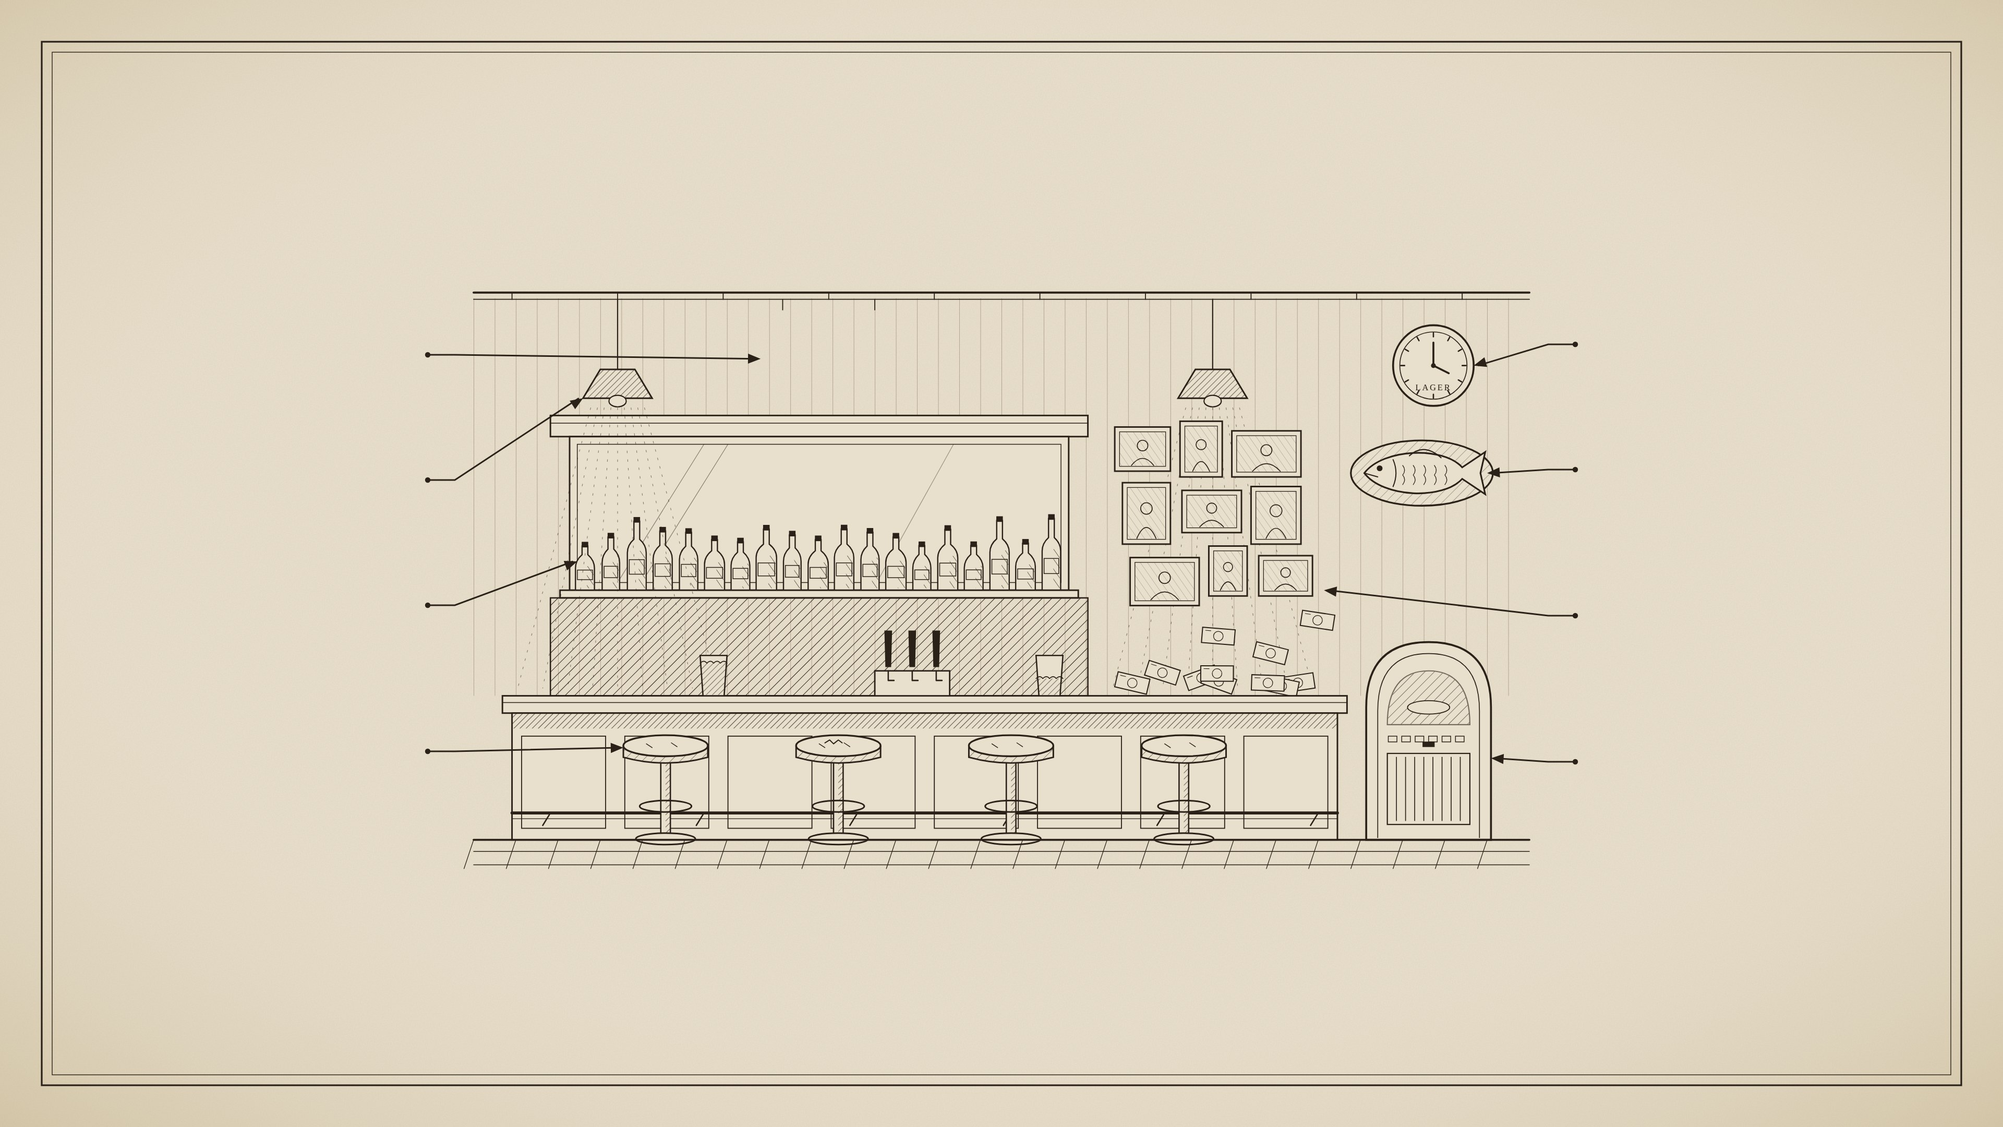
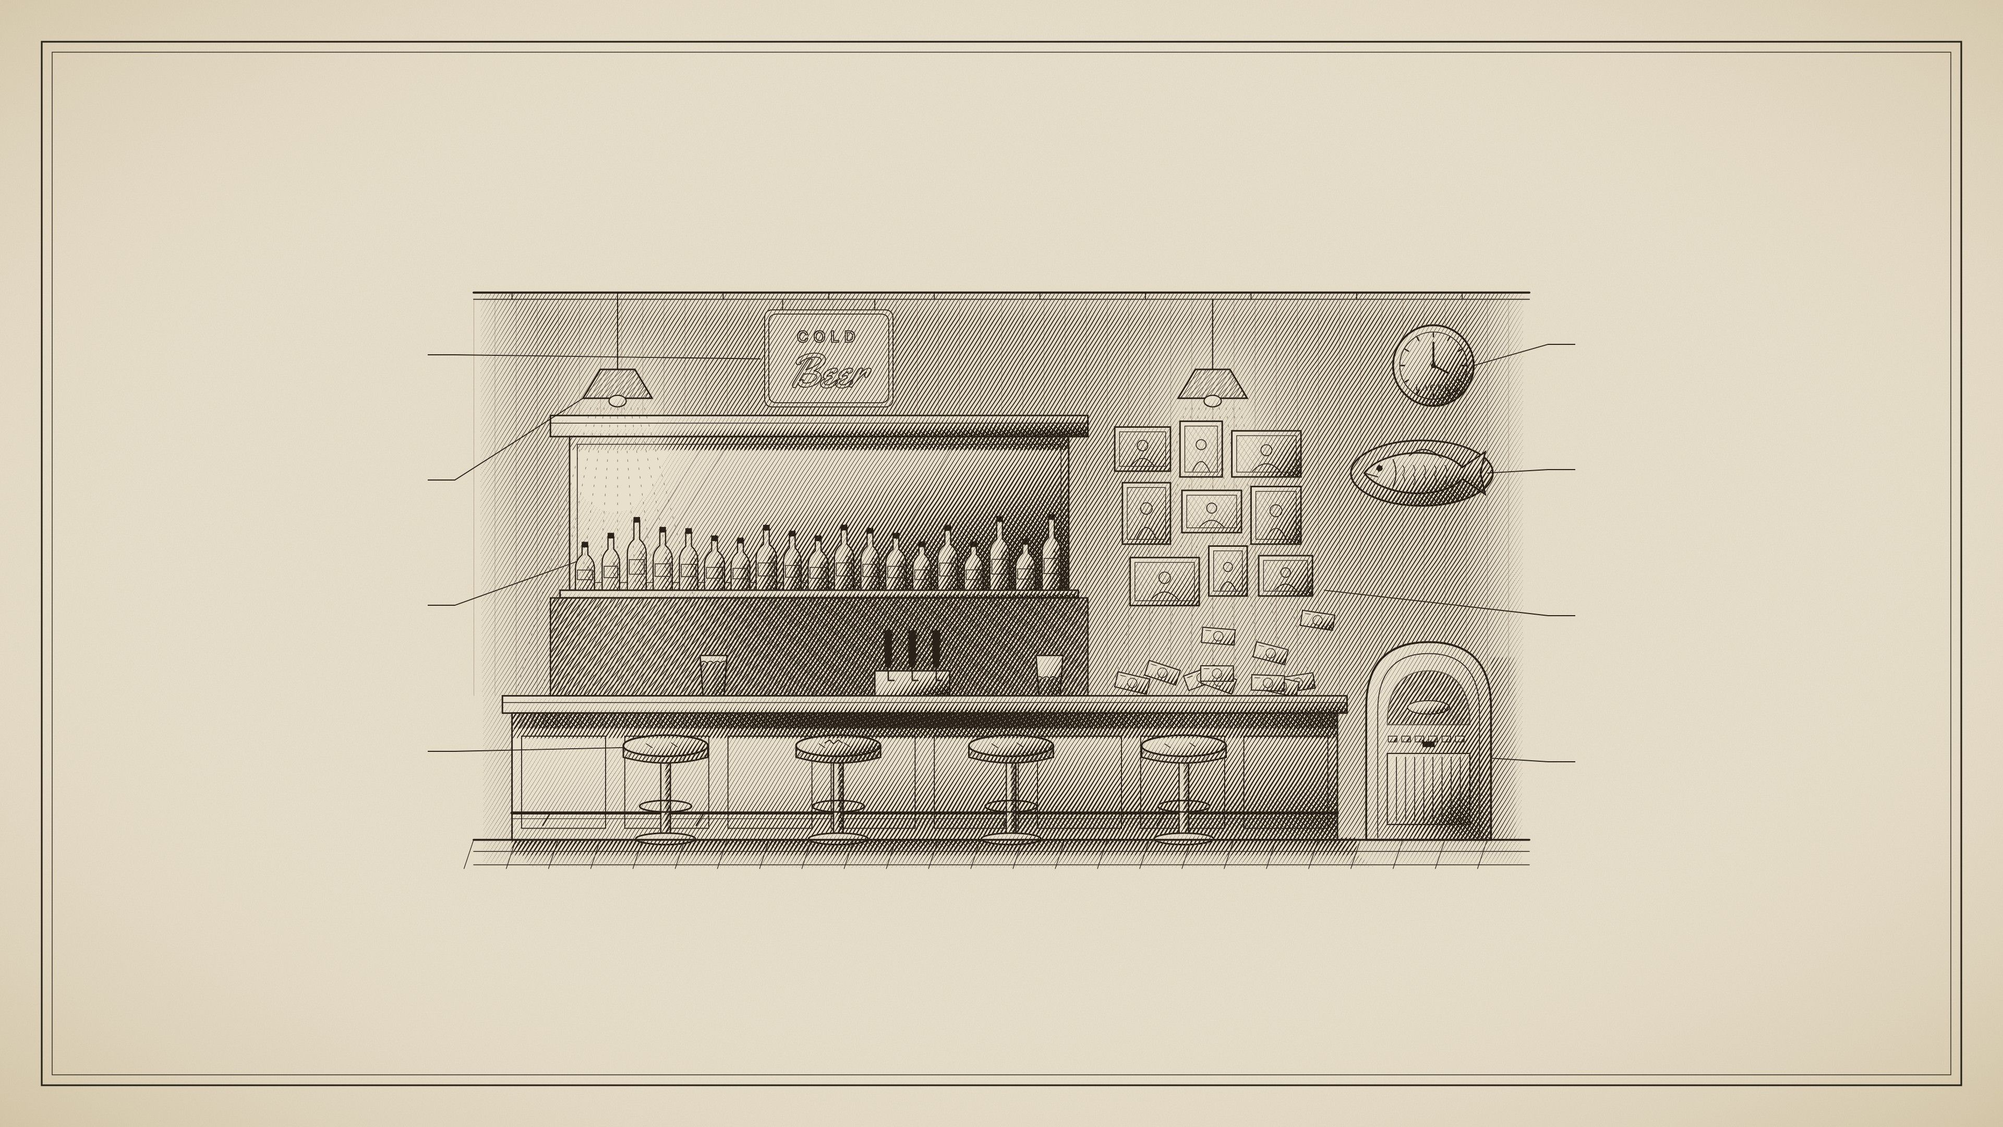
Engraved anatomy plate with ink-drawn neon sign; add Field Protocol slide
Claude-Session: https://claude.ai/code/session_015phtUVgaf7xEkFjaS3Q64y

Changed region(s): [[0.25, 0.2481, 0.75, 0.7755]]

diff --git a/index.html b/index.html
@@ -63,7 +63,7 @@ body { background: var(--ink); color: var(--ivory); font-family: var(--ui); over
 @keyframes neon-wake { 0% { opacity: 0; } 8% { opacity: 0.75; } 11% { opacity: 0; } 30% { opacity: 0; } 33% { opacity: 0.9; } 36% { opacity: 0.1; } 41% { opacity: 1; } 45% { opacity: 0.25; } 52% { opacity: 1; } 100% { opacity: 1; } }
 .neon-tube { filter: drop-shadow(0 0 2px rgba(255,90,60,0.95)) drop-shadow(0 0 9px rgba(255,60,30,0.75)) drop-shadow(0 0 22px rgba(255,50,20,0.45)); animation: tube 6.4s linear infinite; }
 .neon-halo { animation: tube 6.4s linear infinite; }
-.neon-photo { box-shadow: 0 0 10px rgba(255,150,70,0.45), 0 0 26px rgba(160,200,255,0.25); animation: tube 6.4s linear infinite; }
+.neon-photo { animation: tube 6.4s linear infinite; }
 @keyframes tube { 0%, 100% { opacity: 1; } 18% { opacity: 1; } 19% { opacity: 0.12; } 20% { opacity: 0.95; } 21% { opacity: 0.2; } 22.5% { opacity: 1; }
   55% { opacity: 0.92; } 56% { opacity: 1; } 81% { opacity: 1; } 81.6% { opacity: 0.08; } 83.5% { opacity: 0.08; } 84% { opacity: 0.85; } 84.5% { opacity: 0.3; } 85.5% { opacity: 1; } }
 .dot { animation: twinkle 4.5s ease-in-out infinite; }
@@ -266,19 +266,19 @@ SOURCES: U.S. Census Bureau NAICS code 722410, "Drinking Places (Alcoholic Bever
 <p style="position:absolute;left:96px;top:84px;width:400px;font-family:Inter, Arial, sans-serif;font-size:24px;letter-spacing:6px;text-transform:uppercase;color:#6B5440">Plate III</p>
 <p style="position:absolute;left:1124px;top:78px;width:700px;font-size:30px;font-style:italic;text-align:right;color:#6B5440">Diveus americanus</p>
 <h2 style="position:absolute;left:128px;top:112px;width:1664px;font-family:'Cormorant Garamond', Georgia, serif;font-size:64px;font-weight:500;line-height:1.1;letter-spacing:12px;text-transform:uppercase;text-align:center;color:#2A2119">Anatomy of a Dive</h2>
-<p style="position:absolute;left:128px;top:194px;width:1664px;font-size:30px;font-style:italic;text-align:center;color:#6B5440">Fig. 1. Interior, lateral section. Drawn from life.</p>
-<div style="position:absolute;left:96px;top:324px;width:300px;display:flex;flex-direction:column;gap:0px"><p style="font-size:30px;font-style:italic;line-height:1.1;text-align:right;color:#2A2119">Neon vestigialis</p><p style="font-family:Inter, Arial, sans-serif;font-size:24px;line-height:1.3;text-align:right;color:#6B5440">Old neon</p></div>
-<div style="position:absolute;left:96px;top:444px;width:300px;display:flex;flex-direction:column;gap:0px"><p style="font-size:30px;font-style:italic;line-height:1.1;text-align:right;color:#2A2119">Lumen obscurum</p><p style="font-family:Inter, Arial, sans-serif;font-size:24px;line-height:1.3;text-align:right;color:#6B5440">Low ambient light</p></div>
-<div style="position:absolute;left:96px;top:564px;width:300px;display:flex;flex-direction:column;gap:0px"><p style="font-size:30px;font-style:italic;line-height:1.1;text-align:right;color:#2A2119">Reservoir lagerum</p><p style="font-family:Inter, Arial, sans-serif;font-size:24px;line-height:1.3;text-align:right;color:#6B5440">Domestic lager supply</p></div>
-<div style="position:absolute;left:96px;top:704px;width:300px;display:flex;flex-direction:column;gap:0px"><p style="font-size:30px;font-style:italic;line-height:1.1;text-align:right;color:#2A2119">Sedes territorialis</p><p style="font-family:Inter, Arial, sans-serif;font-size:24px;line-height:1.3;text-align:right;color:#6B5440">Territorial seating</p></div>
-<div style="position:absolute;left:1524px;top:314px;width:320px;display:flex;flex-direction:column;gap:0px"><p style="font-size:30px;font-style:italic;line-height:1.1;color:#2A2119">Horologium cerevisiae</p><p style="font-family:Inter, Arial, sans-serif;font-size:24px;line-height:1.3;color:#6B5440">Brewery-issued clock †</p></div>
-<div style="position:absolute;left:1524px;top:434px;width:320px;display:flex;flex-direction:column;gap:0px"><p style="font-size:30px;font-style:italic;line-height:1.1;color:#2A2119">Artefactum inexplicatum</p><p style="font-family:Inter, Arial, sans-serif;font-size:24px;line-height:1.3;color:#6B5440">Unexplained artifact</p></div>
-<div style="position:absolute;left:1524px;top:574px;width:320px;display:flex;flex-direction:column;gap:0px"><p style="font-size:30px;font-style:italic;line-height:1.1;color:#2A2119">Paries accumulatus</p><p style="font-family:Inter, Arial, sans-serif;font-size:24px;line-height:1.3;color:#6B5440">Accumulated décor</p></div>
-<div style="position:absolute;left:1524px;top:714px;width:320px;display:flex;flex-direction:column;gap:0px"><p style="font-size:30px;font-style:italic;line-height:1.1;color:#2A2119">Machina musicalis</p><p style="font-family:Inter, Arial, sans-serif;font-size:24px;line-height:1.3;color:#6B5440">Jukebox</p></div>
+<p style="position:absolute;left:128px;top:194px;width:1664px;font-size:30px;font-style:italic;text-align:center;color:#6B5440">Fig. 1.—Interior, lateral section. Engraved from life.</p>
+<div style="position:absolute;left:96px;top:324px;width:300px;display:flex;flex-direction:column;gap:0px"><p style="font-size:30px;font-style:italic;line-height:1.1;text-align:right;color:#2A2119"><span style="font-style:normal;color:#8C2F23">1.</span> Neon vestigialis</p><p style="font-family:Inter, Arial, sans-serif;font-size:24px;line-height:1.3;text-align:right;color:#6B5440">Old neon</p></div>
+<div style="position:absolute;left:96px;top:444px;width:300px;display:flex;flex-direction:column;gap:0px"><p style="font-size:30px;font-style:italic;line-height:1.1;text-align:right;color:#2A2119"><span style="font-style:normal;color:#8C2F23">2.</span> Lumen obscurum</p><p style="font-family:Inter, Arial, sans-serif;font-size:24px;line-height:1.3;text-align:right;color:#6B5440">Low ambient light</p></div>
+<div style="position:absolute;left:96px;top:564px;width:300px;display:flex;flex-direction:column;gap:0px"><p style="font-size:30px;font-style:italic;line-height:1.1;text-align:right;color:#2A2119"><span style="font-style:normal;color:#8C2F23">3.</span> Reservoir lagerum</p><p style="font-family:Inter, Arial, sans-serif;font-size:24px;line-height:1.3;text-align:right;color:#6B5440">Domestic lager supply</p></div>
+<div style="position:absolute;left:96px;top:704px;width:300px;display:flex;flex-direction:column;gap:0px"><p style="font-size:30px;font-style:italic;line-height:1.1;text-align:right;color:#2A2119"><span style="font-style:normal;color:#8C2F23">4.</span> Sedes territorialis</p><p style="font-family:Inter, Arial, sans-serif;font-size:24px;line-height:1.3;text-align:right;color:#6B5440">Territorial seating</p></div>
+<div style="position:absolute;left:1514px;top:314px;width:356px;display:flex;flex-direction:column;gap:0px"><p style="font-size:30px;font-style:italic;line-height:1.1;color:#2A2119"><span style="font-style:normal;color:#8C2F23">5.</span> Horologium cerevisiae</p><p style="font-family:Inter, Arial, sans-serif;font-size:24px;line-height:1.3;color:#6B5440">Brewery-issued clock †</p></div>
+<div style="position:absolute;left:1514px;top:434px;width:356px;display:flex;flex-direction:column;gap:0px"><p style="font-size:30px;font-style:italic;line-height:1.1;color:#2A2119"><span style="font-style:normal;color:#8C2F23">6.</span> Artefactum inexplicatum</p><p style="font-family:Inter, Arial, sans-serif;font-size:24px;line-height:1.3;color:#6B5440">Unexplained artifact</p></div>
+<div style="position:absolute;left:1514px;top:574px;width:356px;display:flex;flex-direction:column;gap:0px"><p style="font-size:30px;font-style:italic;line-height:1.1;color:#2A2119"><span style="font-style:normal;color:#8C2F23">7.</span> Paries accumulatus</p><p style="font-family:Inter, Arial, sans-serif;font-size:24px;line-height:1.3;color:#6B5440">Accumulated décor</p></div>
+<div style="position:absolute;left:1514px;top:714px;width:356px;display:flex;flex-direction:column;gap:0px"><p style="font-size:30px;font-style:italic;line-height:1.1;color:#2A2119"><span style="font-style:normal;color:#8C2F23">8.</span> Machina musicalis</p><p style="font-family:Inter, Arial, sans-serif;font-size:24px;line-height:1.3;color:#6B5440">Jukebox</p></div>
 <p style="position:absolute;left:310px;top:862px;width:1300px;font-family:Inter, Arial, sans-serif;font-size:24px;letter-spacing:6px;text-transform:uppercase;text-align:center;color:#8C2F23">The Law of Accumulation</p>
 <p style="position:absolute;left:310px;top:898px;width:1300px;font-size:30px;font-style:italic;line-height:1.3;text-align:center;color:#2A2119">“The authenticity of a dive bar appears positively correlated with the number of objects whose origin the current bartender cannot explain.”</p>
 <p style="position:absolute;left:210px;top:990px;width:1500px;font-family:Inter, Arial, sans-serif;font-size:24px;text-align:center;color:#6B5440">† Since 1935, federal law has barred brewers from giving bars anything of value, unless it advertises the brewer.</p>
-<img class="sign-ink" src="img/lite_ink.png" alt="" style="position:absolute;left:727px;top:291px;width:135px;height:105px"><div class="neon-sign" style="position:absolute;left:727px;top:291px;width:135px;height:105px"><div class="neon-halo" style="position:absolute;left:-70px;top:-60px;width:275px;height:225px;background:radial-gradient(closest-side, rgba(255,140,60,0.32), rgba(255,140,60,0))"></div><img class="neon-photo" src="img/lite_lit.jpg" alt="" style="position:absolute;left:0px;top:0px;width:135px;height:105px;border-radius:8px"></div>
+<div class="neon-sign" style="position:absolute;left:687px;top:251px;width:215px;height:185px"><div class="neon-halo" style="position:absolute;left:-40px;top:-30px;width:295px;height:245px;background:radial-gradient(closest-side, rgba(255,120,50,0.28), rgba(255,120,50,0))"></div><img class="neon-photo" src="img/sign_lit.png" alt="" style="position:absolute;left:0px;top:0px;width:215px;height:185px"></div>
 <aside>[0:55 to 1:59 · about 160 words]
 
 Let us examine a specimen.
@@ -297,7 +297,7 @@ But most of it simply arrived. Which brings us to the Law of Accumulation.
 
 A real dive is not decorated. It accumulates.
 
-VISUAL NOTE: This plate is an original line illustration. The neon sign is your own Lite Beer sign photo, drawn in ink until about ten seconds in, then it flickers on. The arrows are part of the image. The labels are separate text boxes, so you can rename any part, but if you move one, its arrow stays put.
+VISUAL NOTE: This plate is an original engraving-style illustration in the manner of a 19th-century anatomy atlas. The neon sign is drawn in ink and flickers on about ten seconds after you arrive. The arrows are part of the image. The labels are separate text boxes, so you can rename any part, but if you move one, its arrow stays put.
 
 SOURCES: Pre-Prohibition tied houses received "bar fixtures," "branded backbars" and "brewery-branded mirrors and hardware" (Whiting-Robertsdale Historical Society, "The Tied House System That Left Its Mark on Whiting"). Federal Alcohol Administration Act of 1935, section 205(b) (27 U.S.C. 205): suppliers may not induce retailers with things of value (the "tied house" provision). Brewers Association, "Tied House Laws": temperance campaigners used "tied house" against brewer-controlled saloons, which helped bring Prohibition; federal rules bar suppliers from giving retailers cash, equipment or other goods, with exceptions for advertising materials. 27 CFR 6.102: outside signs must carry conspicuous advertising and cost no more than $400. 27 CFR 6.83: product displays are limited to $300 per brand at a time in one retail establishment. 27 CFR 6.84 lets industry members give retailers point-of-sale materials such as "inside signs," "back bar mats," "clocks, calendars" and menus, provided they carry conspicuous advertising. The Law of Accumulation and the Latin anatomy terms are our own invention, presented as such.</aside>
 </section>
@@ -763,10 +763,48 @@ Fortunately, field researchers rely on one simple diagnostic.
 
 (Let the slide sit for three full seconds. Say nothing. Let the audience read it.)</aside>
 </section>
+<section class="slide" id="protocol" data-scene="quiet" style="background:#13110E;color:#EDE6D8;font-family:'Cormorant Garamond', Georgia, serif;padding:128px">
+<p style="position:absolute;left:128px;top:64px;width:300px;font-family:Inter, Arial, sans-serif;font-size:24px;letter-spacing:4px;color:#A89F8F">19</p>
+<p style="position:absolute;left:128px;top:150px;width:1664px;font-family:Inter, Arial, sans-serif;font-size:24px;letter-spacing:8px;text-transform:uppercase;text-align:center;color:#C9A15A">Observing without disturbing</p>
+<h2 style="position:absolute;left:128px;top:196px;width:1664px;font-family:'Cormorant Garamond', Georgia, serif;font-size:64px;font-weight:400;line-height:1.1;letter-spacing:8px;text-transform:uppercase;text-align:center;color:#EDE6D8">Field Protocol</h2>
+<div style="position:absolute;left:208px;top:410px;width:1504px;display:flex;gap:96px">
+<div style="flex:1;display:flex;flex-direction:column;gap:40px">
+<div style="display:flex;gap:28px"><p style="width:56px;flex-shrink:0;font-family:Inter, Arial, sans-serif;font-size:24px;letter-spacing:3px;color:#C9A15A;padding:10px 0px 0px">01</p><p style="font-size:36px;line-height:1.3;color:#EDE6D8">Four people or fewer. <span style="color:#A89F8F">A larger party disrupts the habitat.</span></p></div>
+<div style="display:flex;gap:28px"><p style="width:56px;flex-shrink:0;font-family:Inter, Arial, sans-serif;font-size:24px;letter-spacing:3px;color:#C9A15A;padding:10px 0px 0px">02</p><p style="font-size:36px;line-height:1.3;color:#EDE6D8">A beer, a shot, or two ingredients. <span style="color:#A89F8F">Never a fancy drink.</span></p></div>
+<div style="display:flex;gap:28px"><p style="width:56px;flex-shrink:0;font-family:Inter, Arial, sans-serif;font-size:24px;letter-spacing:3px;color:#C9A15A;padding:10px 0px 0px">03</p><p style="font-size:36px;line-height:1.3;color:#EDE6D8">Read the room before the jukebox. <span style="color:#A89F8F">Never try to change the vibe.</span></p></div>
+</div>
+<div style="flex:1;display:flex;flex-direction:column;gap:40px">
+<div style="display:flex;gap:28px"><p style="width:56px;flex-shrink:0;font-family:Inter, Arial, sans-serif;font-size:24px;letter-spacing:3px;color:#C9A15A;padding:10px 0px 0px">04</p><p style="font-size:36px;line-height:1.3;color:#EDE6D8">Note how seriously they play pool. <span style="color:#A89F8F">Mimic accordingly.</span></p></div>
+<div style="display:flex;gap:28px"><p style="width:56px;flex-shrink:0;font-family:Inter, Arial, sans-serif;font-size:24px;letter-spacing:3px;color:#C9A15A;padding:10px 0px 0px">05</p><p style="font-size:36px;line-height:1.3;color:#EDE6D8">The restroom is for number one. <span style="color:#A89F8F">Number two means it’s time to go home.</span></p></div>
+<div style="display:flex;gap:28px"><p style="width:56px;flex-shrink:0;font-family:Inter, Arial, sans-serif;font-size:24px;letter-spacing:3px;color:#C9A15A;padding:10px 0px 0px">06</p><p style="font-size:36px;line-height:1.3;color:#EDE6D8">Bring cash. <span style="color:#A89F8F">If they don’t take plastic, be delighted. They are trying to survive.</span></p></div>
+</div>
+</div>
+<aside>[9:58 to 10:42 · about 110 words]
+
+If you go out to observe one yourself, a few protocols.
+
+One. Four people or fewer. A larger party disrupts the habitat.
+
+Two. Order a beer, a shot, or a drink with two ingredients at most. Never a fancy drink.
+
+Three. Notice the vibe before you go near the jukebox. You are there to observe the vibe, not to change it.
+
+Four. Watch how seriously the pool players are taking it. Then mimic accordingly.
+
+Five. The restroom is for number one only. Number two means it's time to go home.
+
+(beat)
+
+And six. Always bring cash. When they tell you they don't take cards, be delighted.
+
+They are trying to survive.
+
+VISUAL NOTE: These are your own field rules, presented as the researcher's opinion. Nothing here needs a source.</aside>
+</section>
 <section class="slide" id="conservation" data-scene="lastcall" style="background:#0D0C0A;color:#EDE6D8;font-family:'Cormorant Garamond', Georgia, serif;padding:128px">
 <div class="kb" style="position:absolute;left:0px;top:0px;width:1180px;height:1080px;overflow:hidden"><div class="kb-in"><img src="img/p_conservation.jpg" alt="Red neon COLD BEER sign on a weathered brick wall at sunset" style="width:100%;height:100%;object-fit:cover"><div class="fx neon" style="position:absolute;left:245px;top:96px;width:560px;height:680px;background:radial-gradient(closest-side, rgba(255,64,40,0.36), rgba(255,64,40,0))"></div></div></div>
 <div style="position:absolute;left:700px;top:0px;width:480px;height:1080px;background:linear-gradient(90deg, rgba(13,12,10,0) 0%, #0D0C0A 100%)"></div>
-<p style="position:absolute;left:128px;top:64px;width:300px;font-family:Inter, Arial, sans-serif;font-size:24px;letter-spacing:4px;color:#EDE6D8;text-shadow:0px 1px 8px rgba(0,0,0,0.95)">19</p>
+<p style="position:absolute;left:128px;top:64px;width:300px;font-family:Inter, Arial, sans-serif;font-size:24px;letter-spacing:4px;color:#EDE6D8;text-shadow:0px 1px 8px rgba(0,0,0,0.95)">20</p>
 <div style="position:absolute;left:1120px;top:128px;width:672px;height:824px;display:flex;flex-direction:column;justify-content:center;gap:24px">
 <h2 style="font-family:'Cormorant Garamond', Georgia, serif;font-size:60px;font-weight:400;line-height:1.1;letter-spacing:8px;text-transform:uppercase;color:#EDE6D8">Conservation</h2>
 <p style="font-size:32px;line-height:1.35;color:#D9D1C1">No one has ever counted America’s dive bars. The pressures on neighborhood gathering places are easier to name.</p>
@@ -779,7 +817,7 @@ Fortunately, field researchers rely on one simple diagnostic.
 <hr style="width:80px;border-top:2px solid #C9A15A">
 <p style="font-size:44px;font-style:italic;line-height:1.25;color:#EDE6D8">You can open a bar tomorrow.<br><span style="color:#E2B866">You cannot open a seventy-year-old bar tomorrow.</span></p>
 </div>
-<aside>[9:58 to 10:41 · about 110 words]
+<aside>[10:42 to 11:25 · about 110 words]
 
 A word on conservation.
 
@@ -798,7 +836,7 @@ SOURCES: Gallup, 2025 Consumption Habits survey, 54% of U.S. adults say they dri
 <section class="slide" id="closing" data-scene="exterior" data-build-cue="door" data-build-scene="silence" style="background:#0D0C0A;color:#EDE6D8;font-family:'Cormorant Garamond', Georgia, serif;padding:128px 128px 144px;display:flex;flex-direction:column;justify-content:end;gap:24px">
 <div class="kb" style="position:absolute;left:820px;top:0px;width:1100px;height:1080px;overflow:hidden"><div class="kb-in"><img src="img/p_closing.jpg" alt="Lone roadside bar with a red neon BAR sign under an orange sunset sky" style="width:100%;height:100%;object-fit:cover"><div class="fx neon slow" style="position:absolute;left:318px;top:394px;width:400px;height:320px;background:radial-gradient(closest-side, rgba(255,72,48,0.40), rgba(255,72,48,0))"></div></div></div>
 <div style="position:absolute;left:820px;top:0px;width:560px;height:1080px;background:linear-gradient(90deg, #0D0C0A 0%, rgba(13,12,10,0) 100%)"></div>
-<p style="position:absolute;left:128px;top:64px;width:300px;font-family:Inter, Arial, sans-serif;font-size:24px;letter-spacing:4px;color:#A89F8F">20</p>
+<p style="position:absolute;left:128px;top:64px;width:300px;font-family:Inter, Arial, sans-serif;font-size:24px;letter-spacing:4px;color:#A89F8F">21</p>
 <p style="font-size:96px;font-style:italic;font-weight:400;line-height:1.1;color:#EDE6D8">Diveus americanus</p>
 <p style="font-family:Inter, Arial, sans-serif;font-size:24px;letter-spacing:6px;text-transform:uppercase;color:#A89F8F">Conservation status   <span style="color:#E2B866">Threatened</span></p>
 <hr style="width:96px;border-top:2px solid #C9A15A">
@@ -806,7 +844,7 @@ SOURCES: Gallup, 2025 Consumption Habits survey, 54% of U.S. adults say they dri
 <p style="font-family:Inter, Arial, sans-serif;font-size:28px;letter-spacing:10px;text-transform:uppercase;text-align:center;color:#A89F8F">Respect the habitat.</p>
 <p style="font-family:'Cormorant Garamond', Georgia, serif;font-size:88px;font-weight:400;line-height:1.1;letter-spacing:6px;text-transform:uppercase;text-align:center;color:#EDE6D8">Don’t sit in Gary’s seat.</p>
 </div>
-<aside>[10:41 to 10:57 · about 40 words]
+<aside>[11:25 to 11:41 · about 40 words]
 
 A great dive bar isn't designed. It evolves.
 
